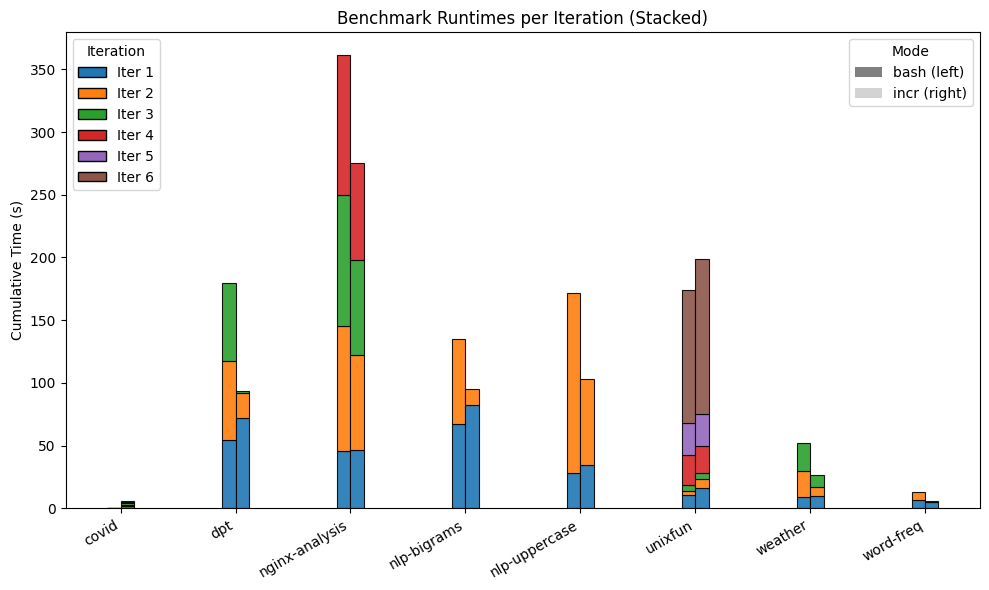
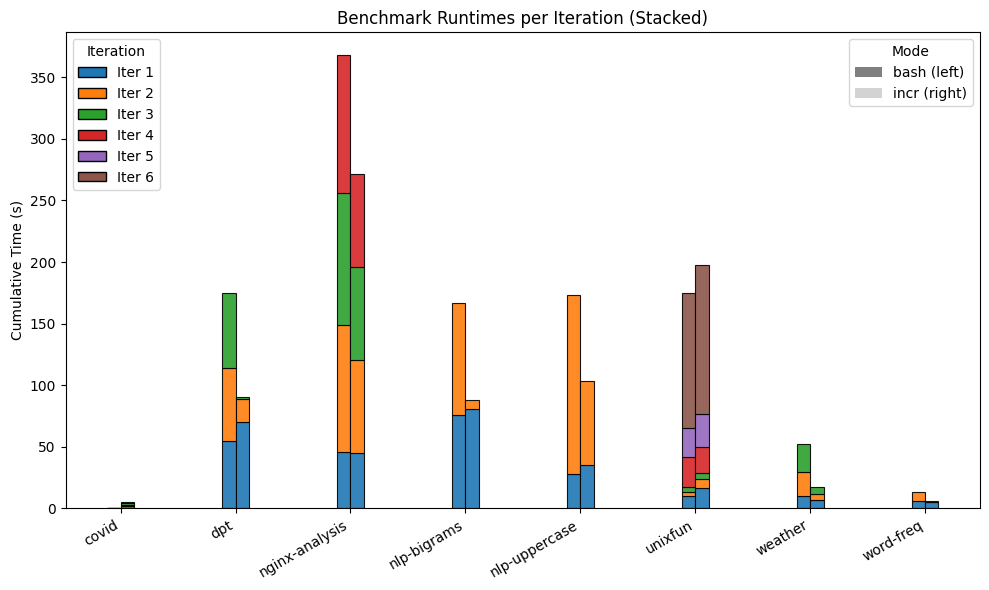
new data

diff --git a/src/main.rs b/src/main.rs
@@ -100,7 +100,7 @@ fn parse_input() -> Result<Option<Input>> {
     let trace_type = execution::get_trace_type(&cache_directory, &command);
     let config = Config {
         complete_execution: true, // TODO: add a flag
-        compress: true,           // TODO: add a flag
+        compress: false,          // TODO: add a flag
         force_cache: arguments.force_cache,
         try_command,
         cache_directory,
